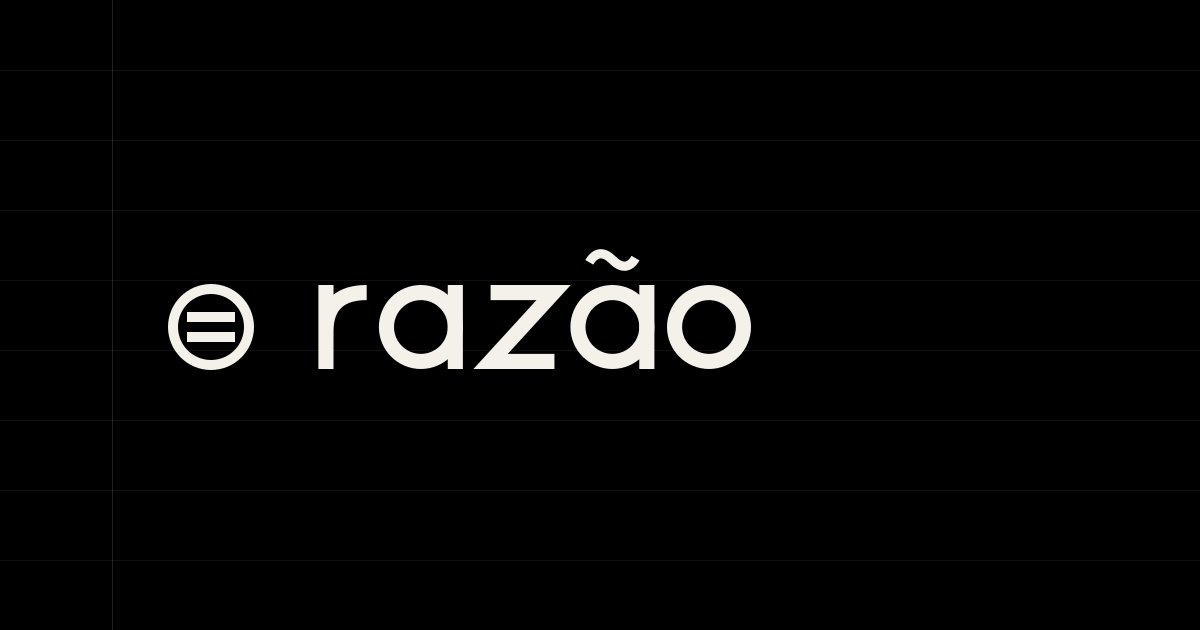
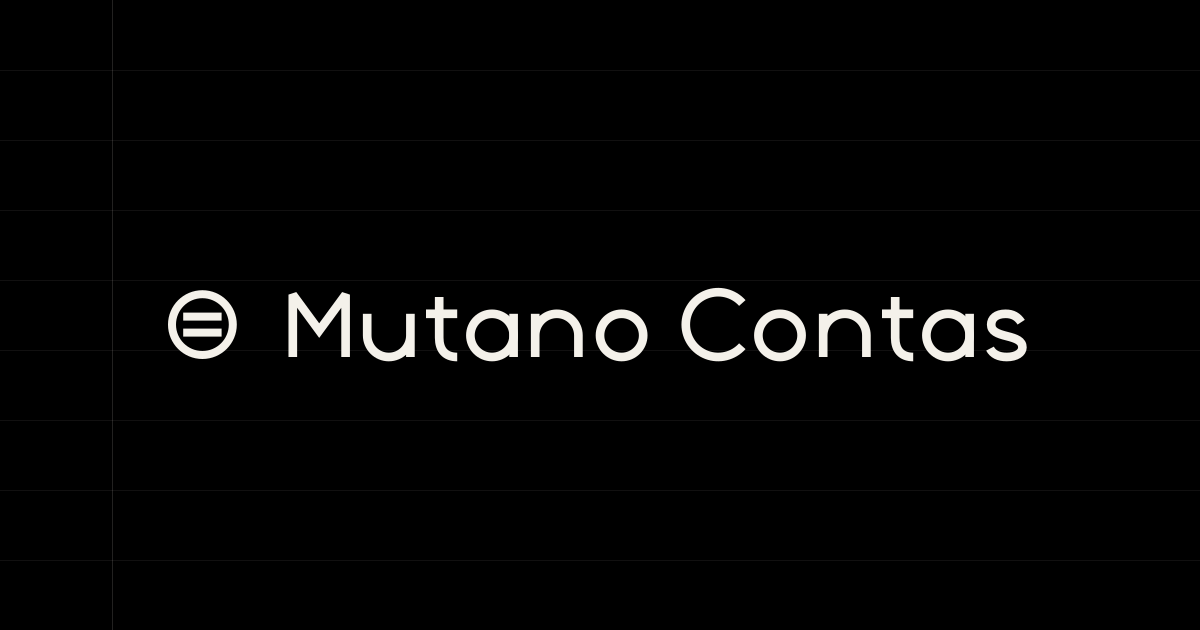
brand: rename app to Mutano Contas

Changed region(s): [[0.1233, 0.4524, 0.8633, 0.6032], [0.4933, 0.3921, 0.555, 0.4222]]

diff --git a/src/components/brand/logo.tsx b/src/components/brand/logo.tsx
@@ -8,20 +8,38 @@ export function LogoMark({ className }: { className?: string }) {
   </svg>;
 }
 
+const SW = { fill: "none", stroke: "currentColor", strokeWidth: 3.6, strokeMiterlimit: 2 } as const;
+
+function Mutano() {
+  return <>
+    <path d="M4 30V4L15 19L26 4V30" />
+    <path d="M35 12V21A9 9 0 0 0 53 21M53 12V30" />
+    <path d="M65 5V22C65 27 67.5 30 72.5 30M59.5 12H72.5" />
+    <circle cx="87" cy="21" r="9" /><path d="M96 12V30" />
+    <path d="M105 30V12M105 21A9 9 0 0 1 123 21V30" />
+    <circle cx="141" cy="21" r="9" />
+  </>;
+}
+
+export function WordmarkCurto({ className }: { className?: string }) {
+  return <svg viewBox="0 0 154 34" className={className} {...SW} aria-label="Mutano" role="img"><Mutano /></svg>;
+}
+
 export function Wordmark({ className }: { className?: string }) {
-  return <svg viewBox="0 0 108 34" className={className} fill="none" stroke="currentColor" strokeWidth="3.6" aria-label="razão" role="img">
-    <path d="M3.8 10V30M3.8 21C3.8 14.5 7.5 11.8 13.5 11.8" />
-    <circle cx="26.4" cy="20" r="8.2" /><path d="M34.6 10V30" />
-    <path d="M43 11.8H58L43 28.2H58.2" />
-    <circle cx="72" cy="20" r="8.2" /><path d="M80.2 10V30" />
-    <path d="M66.5 4.6C68 2 70 2 72 4S76 6.2 77.5 3.6" strokeWidth="2.2" />
-    <circle cx="95" cy="20" r="8.2" />
+  return <svg viewBox="0 0 312 34" className={className} {...SW} aria-label="Mutano Contas" role="img">
+    <Mutano />
+    <path d="M191.3 7.5A13.5 13.5 0 1 0 191.3 25.5" />
+    <circle cx="207" cy="21" r="9" />
+    <path d="M225 30V12M225 21A9 9 0 0 1 243 21V30" />
+    <path d="M255 5V22C255 27 257.5 30 262.5 30M249.5 12H262.5" />
+    <circle cx="277" cy="21" r="9" /><path d="M286 12V30" />
+    <path d="M307.5 15.5C306 13.2 304 12 301 12C297 12 295 14 295 16.5C295 19.3 297.5 20.3 301.5 21.3C305.5 22.3 308 23.3 308 26C308 28.2 305.5 30 301.5 30C298 30 295.7 28.8 294.5 26.5" />
   </svg>;
 }
 
-export function Logo({ className }: { className?: string }) {
+export function Logo({ className, compacto }: { className?: string; compacto?: boolean }) {
   return <span className={cn("inline-flex shrink-0 items-center gap-6 text-[var(--text)]", className)}>
-    <LogoMark className="h-7 w-auto shrink-0 lg:h-8" />
-    <Wordmark className="h-5 w-auto shrink-0 lg:h-6" />
+    <LogoMark className={compacto ? "h-7 w-auto shrink-0" : "h-7 w-auto shrink-0 lg:h-8"} />
+    {compacto ? <WordmarkCurto className="h-5 w-auto shrink-0" /> : <Wordmark className="h-5 w-auto shrink-0 sm:h-6" />}
   </span>;
 }

diff --git a/src/app/page.tsx b/src/app/page.tsx
@@ -53,7 +53,7 @@ export default async function LandingPage() {
   return (
     <div className="min-h-dvh">
       <header className="mx-auto flex max-w-6xl flex-wrap items-center justify-between gap-3 px-4 py-4 sm:px-6 sm:py-6">
-        <Link href="/" aria-label="Razão" className="inline-flex min-h-11 items-center"><Logo /></Link>
+        <Link href="/" aria-label="Mutano Contas" className="inline-flex min-h-11 items-center"><Logo /></Link>
         <div className="flex max-w-full flex-wrap items-center gap-2">
           <ThemeToggle />
           <Link
@@ -129,7 +129,7 @@ export default async function LandingPage() {
 
       <footer className="border-t">
         <div className="muted mx-auto max-w-6xl px-4 py-6 sm:px-6 text-xs">
-          Razão — seus dados ficam na sua conta. Este sistema é uma ferramenta de organização
+          Mutano Contas — seus dados ficam na sua conta. Este sistema é uma ferramenta de organização
           e não substitui orientação profissional de investimentos.
         </div>
       </footer>

diff --git a/src/app/layout.tsx b/src/app/layout.tsx
@@ -19,12 +19,12 @@ const mono = IBM_Plex_Mono({
 const description = "Seu livro-caixa pessoal: gastos fixos e variáveis, reserva de emergência, metas e extratos.";
 
 export const metadata: Metadata = {
-  title: { default: "Razão", template: "%s — Razão" },
+  title: { default: "Mutano Contas", template: "%s — Mutano Contas" },
   description,
-  applicationName: "Razão",
+  applicationName: "Mutano Contas",
   metadataBase: new URL(process.env.NEXT_PUBLIC_APP_URL ?? "https://financeiro2-delta.vercel.app"),
-  openGraph: { type: "website", locale: "pt_BR", siteName: "Razão", title: "Razão", description },
-  twitter: { card: "summary_large_image", title: "Razão", description },
+  openGraph: { type: "website", locale: "pt_BR", siteName: "Mutano Contas", title: "Mutano Contas", description },
+  twitter: { card: "summary_large_image", title: "Mutano Contas", description },
 };
 
 export const viewport: Viewport = {

diff --git a/src/app/api/exportar/relatorio/route.ts b/src/app/api/exportar/relatorio/route.ts
@@ -45,7 +45,7 @@ export async function GET(request: NextRequest) {
   doc.on("data", (c) => chunks.push(c));
   const done = new Promise<Buffer>((resolve) => doc.on("end", () => resolve(Buffer.concat(chunks))));
 
-  doc.fontSize(18).font("Helvetica-Bold").text("Razão — Relatório mensal");
+  doc.fontSize(18).font("Helvetica-Bold").text("Mutano Contas — Relatório mensal");
   doc
     .fontSize(11)
     .font("Helvetica")
@@ -112,7 +112,7 @@ export async function GET(request: NextRequest) {
     .moveDown(2)
     .fontSize(8)
     .fillColor("#999")
-    .text(`Gerado em ${new Date().toLocaleDateString("pt-BR")} pela Razão.`);
+    .text(`Gerado em ${new Date().toLocaleDateString("pt-BR")} pelo Mutano Contas.`);
 
   doc.end();
   const buffer = await done;

diff --git a/src/components/sidebar.tsx b/src/components/sidebar.tsx
@@ -17,8 +17,8 @@ export function Sidebar({ userName, userEmail, accounts, categories }: {
 }) {
   const pathname = usePathname();
   const [newOpen, setNewOpen] = useState(false);
-  const brand = <Link href="/painel" className="flex min-h-11 items-center" aria-label="Razão — ir para o painel">
-    <Logo />
+  const brand = <Link href="/painel" className="flex min-h-11 items-center" aria-label="Mutano Contas — ir para o painel">
+    <Logo compacto />
   </Link>;
   return <>
     <header className="flex min-h-16 items-center justify-between gap-3 border-b bg-[var(--bg)] px-4 lg:fixed lg:top-0 lg:left-0 lg:z-10 lg:w-[232px] lg:border-b-0 lg:pt-4">

diff --git a/src/app/manifest.ts b/src/app/manifest.ts
@@ -7,12 +7,14 @@ import type { MetadataRoute } from "next";
  */
 export default function manifest(): MetadataRoute.Manifest {
   return {
-    name: "Razão",
-    short_name: "Razão",
+    name: "Mutano Contas",
+    short_name: "Mutano",
     description:
       "Seu livro-caixa pessoal: gastos fixos e variáveis, reserva de emergência, metas e extratos.",
     start_url: "/painel",
+    scope: "/",
     display: "standalone",
+    orientation: "portrait",
     background_color: "#000000",
     theme_color: "#000000",
     lang: "pt-BR",

diff --git a/src/app/cadastro/page.tsx b/src/app/cadastro/page.tsx
@@ -13,7 +13,7 @@ export default async function RegisterPage() {
   return (
     <div className="flex min-h-dvh items-center justify-center px-4 py-8 sm:px-6 sm:py-12">
       <div className="min-w-0 w-full max-w-sm">
-        <Link href="/" aria-label="Razão" className="mb-8 flex min-h-11 items-center justify-center">
+        <Link href="/" aria-label="Mutano Contas" className="mb-8 flex min-h-11 items-center justify-center">
           <Logo className="justify-center" />
         </Link>
 

diff --git a/src/app/login/page.tsx b/src/app/login/page.tsx
@@ -18,7 +18,7 @@ export default async function LoginPage({
   return (
     <div className="flex min-h-dvh items-center justify-center px-4 py-8 sm:px-6 sm:py-12">
       <div className="min-w-0 w-full max-w-sm">
-        <Link href="/" aria-label="Razão" className="mb-8 flex min-h-11 items-center justify-center">
+        <Link href="/" aria-label="Mutano Contas" className="mb-8 flex min-h-11 items-center justify-center">
           <Logo className="justify-center" />
         </Link>
 

diff --git a/src/db/schema.ts b/src/db/schema.ts
@@ -1,5 +1,5 @@
 /**
- * Razão — schema do banco (Drizzle ORM / Postgres).
+ * Mutano Contas — schema do banco (Drizzle ORM / Postgres).
  *
  * Regra de ouro: todo valor monetário é armazenado em CENTAVOS (integer).
  * Isso evita erro de arredondamento de float e problema de serialização

diff --git a/README.md b/README.md
@@ -1,4 +1,4 @@
-# Financeiro 2.0
+# Mutano Contas
 
 Controle financeiro pessoal com foco em **clareza**: separar gasto fixo de variável,
 construir reserva de emergência com base no custo de vida real, acompanhar metas,
